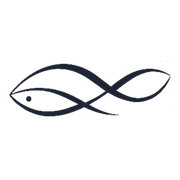
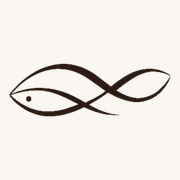
Restore NAMII brown and white palette
Claude-Session: https://claude.ai/code/session_011JbTyTd9VvHo4wynGpMowy

Changed region(s): [[0.0556, 0.3333, 0.9444, 0.6667]]

diff --git a/progress/index.html b/progress/index.html
@@ -4,7 +4,7 @@
 <meta charset="utf-8">
 <meta name="viewport" content="width=device-width,initial-scale=1,viewport-fit=cover">
 <meta name="robots" content="noindex,nofollow">
-<meta name="theme-color" content="#f6f7f9">
+<meta name="theme-color" content="#2B1B12">
 <title>NAMII Progress</title>
 <link rel="icon" type="image/png" href="assets/icon.png">
 <link rel="preconnect" href="https://fonts.googleapis.com">
@@ -12,22 +12,22 @@
 <link rel="stylesheet" href="https://fonts.googleapis.com/css2?family=DM+Sans:opsz,wght@9..40,400;9..40,500;9..40,600;9..40,700&family=Noto+Serif+JP:wght@500&display=swap">
 <style>
 :root{
-  --bg:#f6f7f9; --surface:#ffffff; --ink:#1d2433; --ink-2:#4a5263; --muted:#6b7385;
-  --line:#e4e7ec; --line-2:#cfd4dc; --accent:#2f6fde; --accent-bg:#e8f0fd;
+  --bg:#faf7f2; --surface:#ffffff; --ink:#2b1b12; --ink-2:#5c4636; --muted:#8c7562;
+  --line:#ece3d6; --line-2:#dccdb8; --accent:#8a5a34; --accent-bg:#f3e9dc;
   --ok:#1f7a4d; --ok-bg:#e3f4ea; --warn:#9a5b00; --warn-bg:#fdf1dc; --bad:#c0362c; --bad-bg:#fde8e6;
   --sans:"DM Sans",system-ui,-apple-system,"Segoe UI",Arial,sans-serif;
   --jp:"Noto Serif JP","Hiragino Mincho ProN","Yu Mincho",serif;
   color-scheme:light;
 }
 @media (prefers-color-scheme:dark){:root:not([data-theme="light"]){
-  --bg:#12151b; --surface:#1a1e26; --ink:#eef1f6; --ink-2:#c3c9d4; --muted:#9aa2b1;
-  --line:#2a303b; --line-2:#3a4150; --accent:#7aa7f5; --accent-bg:#1c2a44;
+  --bg:#1c120c; --surface:#2b1b12; --ink:#f5f0e7; --ink-2:#d6c2a9; --muted:#a8927c;
+  --line:#3d2a1e; --line-2:#56402f; --accent:#d6a878; --accent-bg:#3a271a;
   --ok:#6fd19b; --ok-bg:#15301f; --warn:#f0b75e; --warn-bg:#35270f; --bad:#f28b82; --bad-bg:#3a1a18;
   color-scheme:dark;
 }}
 :root[data-theme="dark"]{
-  --bg:#12151b; --surface:#1a1e26; --ink:#eef1f6; --ink-2:#c3c9d4; --muted:#9aa2b1;
-  --line:#2a303b; --line-2:#3a4150; --accent:#7aa7f5; --accent-bg:#1c2a44;
+  --bg:#1c120c; --surface:#2b1b12; --ink:#f5f0e7; --ink-2:#d6c2a9; --muted:#a8927c;
+  --line:#3d2a1e; --line-2:#56402f; --accent:#d6a878; --accent-bg:#3a271a;
   --ok:#6fd19b; --ok-bg:#15301f; --warn:#f0b75e; --warn-bg:#35270f; --bad:#f28b82; --bad-bg:#3a1a18;
   color-scheme:dark;
 }
@@ -82,8 +82,8 @@ section{margin-top:36px}
 .chip{font:500 14px/1 var(--sans);padding:8px 13px;border:1px solid var(--line-2);background:var(--surface);color:var(--ink-2);cursor:pointer;border-radius:999px}
 .chip:hover{border-color:var(--accent);color:var(--accent)}
 .chip[aria-pressed="true"]{background:var(--accent);border-color:var(--accent);color:#fff}
-:root[data-theme="dark"] .chip[aria-pressed="true"]{color:#0f1830}
-@media (prefers-color-scheme:dark){:root:not([data-theme="light"]) .chip[aria-pressed="true"]{color:#0f1830}}
+:root[data-theme="dark"] .chip[aria-pressed="true"]{color:#1c120c}
+@media (prefers-color-scheme:dark){:root:not([data-theme="light"]) .chip[aria-pressed="true"]{color:#1c120c}}
 
 /* List */
 .list{background:var(--surface);border:1px solid var(--line);border-radius:12px;overflow:hidden}
@@ -185,7 +185,7 @@ section{margin-top:36px}
   const parse = s => { const [y,m,d] = s.split('-').map(Number); return Date.UTC(y, m-1, d); };
   const fmt = (t, o) => new Date(t).toLocaleDateString('en-GB', {timeZone:'UTC', ...o});
   const cats = data.categories;
-  const catColor = {design:'#2f6fde', purchase:'#1f9d8a', marketing:'#d9488f', hiring:'#8b5cf6', setup:'#e08a00', launch:'var(--ink)'};
+  const catColor = {design:'#8a5a34', purchase:'#6f7d4a', marketing:'#b0584a', hiring:'#5f6f86', setup:'#c28a2e', launch:'var(--ink)'};
   const opening = parse(data.opening);
   const esc = s => String(s).replace(/[&<>"]/g, c => ({'&':'&amp;','<':'&lt;','>':'&gt;','"':'&quot;'}[c]));
 

diff --git a/tools/send_reminders.py b/tools/send_reminders.py
@@ -109,40 +109,40 @@ def render(data, today, upcoming, overdue, site_url):
         for m in items:
             note = ""
             if m.get("note"):
-                note = (f'<div style="margin-top:6px;font-size:13px;color:#4a5263;line-height:1.5">'
+                note = (f'<div style="margin-top:6px;font-size:13px;color:#5c4636;line-height:1.5">'
                         f'{escape(m["note"])}</div>')
             out.append(
-                f'<tr><td style="padding:14px 0;border-top:1px solid #e4e7ec;vertical-align:top;width:92px">'
-                f'<div style="font-size:12px;letter-spacing:.08em;text-transform:uppercase;color:#6b7385">{m["_due"].strftime("%a")}</div>'
-                f'<div style="font-size:22px;color:#1d2433">{m["_due"].strftime("%d %b")}</div></td>'
-                f'<td style="padding:14px 0;border-top:1px solid #e4e7ec;vertical-align:top">'
-                f'<div style="font-size:15px;color:#1d2433;font-weight:600">{escape(m["title"])}</div>'
-                f'<div style="font-size:12px;color:#6b7385;margin-top:3px">{escape(m["_cat"])} · '
+                f'<tr><td style="padding:14px 0;border-top:1px solid #ece3d6;vertical-align:top;width:92px">'
+                f'<div style="font-size:12px;letter-spacing:.08em;text-transform:uppercase;color:#8c7562">{m["_due"].strftime("%a")}</div>'
+                f'<div style="font-size:22px;color:#2b1b12">{m["_due"].strftime("%d %b")}</div></td>'
+                f'<td style="padding:14px 0;border-top:1px solid #ece3d6;vertical-align:top">'
+                f'<div style="font-size:15px;color:#2b1b12;font-weight:600">{escape(m["title"])}</div>'
+                f'<div style="font-size:12px;color:#8c7562;margin-top:3px">{escape(m["_cat"])} · '
                 f'<b style="color:{accent}">{when(m["_days"])}</b></div>{note}</td></tr>'
             )
         return "".join(out)
 
     section = lambda title, body: (
-        f'<div style="font-size:11px;letter-spacing:.2em;text-transform:uppercase;color:#6b7385;margin:28px 0 4px">{title}</div>'
+        f'<div style="font-size:11px;letter-spacing:.2em;text-transform:uppercase;color:#8c7562;margin:28px 0 4px">{title}</div>'
         f'<table style="width:100%;border-collapse:collapse">{body}</table>'
     )
     parts = []
     if upcoming:
-        parts.append(section("Coming up", rows(upcoming, "#2f6fde")))
+        parts.append(section("Coming up", rows(upcoming, "#8a5a34")))
     if overdue:
         parts.append(section("Overdue", rows(overdue, "#b3261e")))
-    link = (f'<p style="margin-top:28px"><a href="{escape(site_url)}" style="display:inline-block;background:#1d2433;'
-            f'color:#f6f7f9;padding:12px 22px;text-decoration:none;font-size:13px;letter-spacing:.12em;'
+    link = (f'<p style="margin-top:28px"><a href="{escape(site_url)}" style="display:inline-block;background:#2b1b12;'
+            f'color:#faf7f2;padding:12px 22px;text-decoration:none;font-size:13px;letter-spacing:.12em;'
             f'text-transform:uppercase">Open roadmap</a></p>') if site_url else ""
-    html = f"""<!doctype html><html><body style="margin:0;background:#f6f7f9;font-family:Helvetica,Arial,sans-serif">
+    html = f"""<!doctype html><html><body style="margin:0;background:#faf7f2;font-family:Helvetica,Arial,sans-serif">
 <div style="max-width:560px;margin:0 auto;padding:32px 24px">
-<div style="font-size:28px;letter-spacing:.35em;color:#1d2433">NAMII <span style="letter-spacing:0">鮨</span></div>
-<div style="font-size:12px;letter-spacing:.14em;text-transform:uppercase;color:#6b7385;margin-top:6px">Opening roadmap · {fmt(today)}</div>
-<div style="margin-top:22px;padding:16px 18px;background:#1d2433;color:#f6f7f9">
+<div style="font-size:28px;letter-spacing:.35em;color:#2b1b12">NAMII <span style="letter-spacing:0">鮨</span></div>
+<div style="font-size:12px;letter-spacing:.14em;text-transform:uppercase;color:#8c7562;margin-top:6px">Opening roadmap · {fmt(today)}</div>
+<div style="margin-top:22px;padding:16px 18px;background:#2b1b12;color:#faf7f2">
 <span style="font-size:30px">{to_open}</span>
 <span style="font-size:12px;letter-spacing:.12em;text-transform:uppercase;opacity:.8">&nbsp;days to opening &nbsp;·&nbsp; {done}/{total} done</span></div>
 {''.join(parts)}{link}
-<p style="font-size:11px;color:#6b7385;margin-top:32px;line-height:1.6">You get this email 7, 3 and 1 day before each milestone and on the day.
+<p style="font-size:11px;color:#8c7562;margin-top:32px;line-height:1.6">You get this email 7, 3 and 1 day before each milestone and on the day.
 Mark items done in <code>progress/milestones.json</code> to stop reminders.</p>
 </div></body></html>"""
     return subject, text, html
